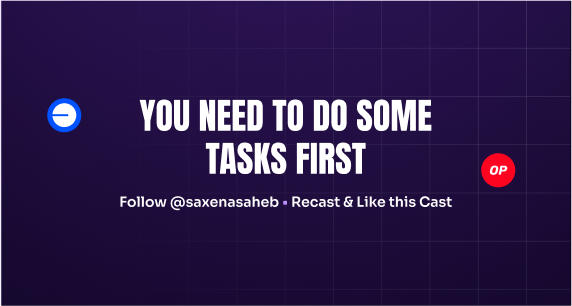
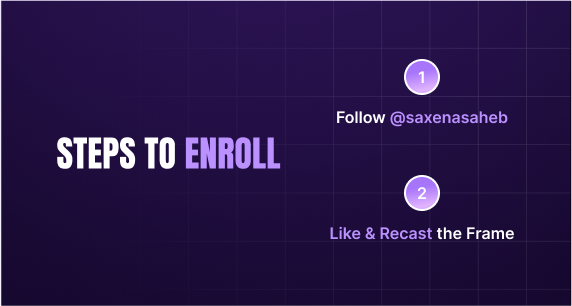
Add checkFollower and checkCast utility functions to api/index.tsx

diff --git a/api/index.tsx b/api/index.tsx
@@ -4,6 +4,8 @@ import { serveStatic } from 'frog/serve-static'
 
 // import { neynar } from 'frog/hubs'
 import { handle } from 'frog/vercel'
+import { checkFollower } from '../utils/checkFollower.js'
+import { checkCast } from '../utils/checkCast.js'
 
 // Uncomment to use Edge Runtime.
 // export const config = {
@@ -17,18 +19,38 @@ export const app = new Frog({
   // hub: neynar({ apiKey: 'NEYNAR_FROG_FM' })
 })
 
-app.frame('/', (c) => {
+const imageMap: Record<string, string> = {
+  "state:eval": 'success.png',
+  "state:intro": 'intro.png',
+  "state:retry": 'error.png',
+}
+
+app.frame('/', async (c) => {
   const origin = c.url.split('/api')[0]
   const { buttonValue } = c
-  console.log("🚀 ~ app.frame ~ buttonValue:", buttonValue)
 
-  const state = buttonValue || "state:intro"
+  let state = buttonValue || "state:intro"
+
+  // const fid = c.frameData?.fid
+  const castHash = c.frameData?.castId.hash
+
+  const fid = 479
+
+  const isFollower = fid && await checkFollower(fid)
+  const castDetails = fid && castHash && await checkCast(castHash, fid)
+
+  const isValid = isFollower.following && castDetails?.liked && castDetails?.recasted
+
+  if (!isValid && state === "state:eval") {
+    state = "state:retry"
+  }
 
   return c.res({
-    image: origin + '/images/intro.png',
+    image: origin + '/images/' + imageMap[state],
     intents: [
       state === 'state:intro' && <Button value={"state:eval"}>Know more</Button>,
-      state === 'state:eval' && <Button value={"state:eval"}>Retry</Button>,
+      state === 'state:eval' && <Button.Link href="https://0xfbi.com/based-fellowship">Tell me more</Button.Link>,
+      state === 'state:retry' && <Button value={'state:eval'}>Retry</Button>,
     ],
   })
 })

diff --git a/utils/checkFollower.ts b/utils/checkFollower.ts
@@ -1,0 +1,20 @@
+
+const SAXENASAHEB_FID = 4753
+
+export const checkFollower = async (fid: number) => {
+    try {
+        const options = {
+            method: 'GET',
+            headers: { accept: 'application/json', api_key: 'NEYNAR_API_DOCS' }
+        };
+
+        const url = `https://api.neynar.com/v2/farcaster/user/bulk?fids=${SAXENASAHEB_FID}&viewer_fid=${fid}`
+
+        const response = await fetch(url, options)
+            .then(response => response.json())
+
+        return response.users[0].viewer_context
+    } catch (error) {
+        console.error(error)
+    }
+}

diff --git a/utils/checkCast.ts b/utils/checkCast.ts
@@ -1,0 +1,17 @@
+export const checkCast = async (castHash: string, fid: number) => {
+    try {
+        const options = {
+            method: 'GET',
+            headers: { accept: 'application/json', api_key: 'NEYNAR_API_DOCS' }
+        };
+
+        const url = `https://api.neynar.com/v2/farcaster/casts?casts=${castHash}&viewer_fid=${fid}`
+
+        const response = await fetch(url, options)
+            .then(response => response.json())
+
+        return response.casts?.[0].viewer_context
+    } catch (error) {
+        console.error(error)
+    }
+}
